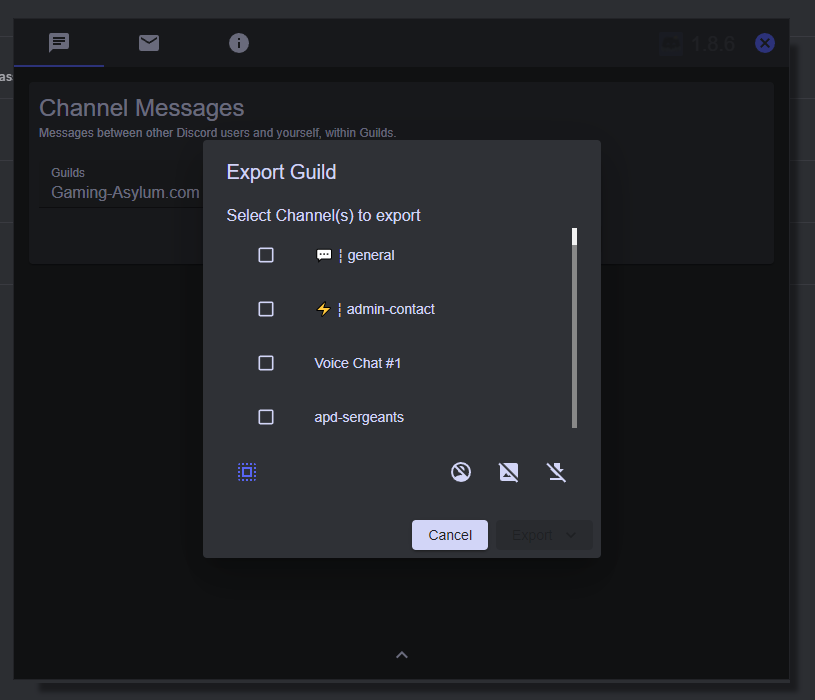
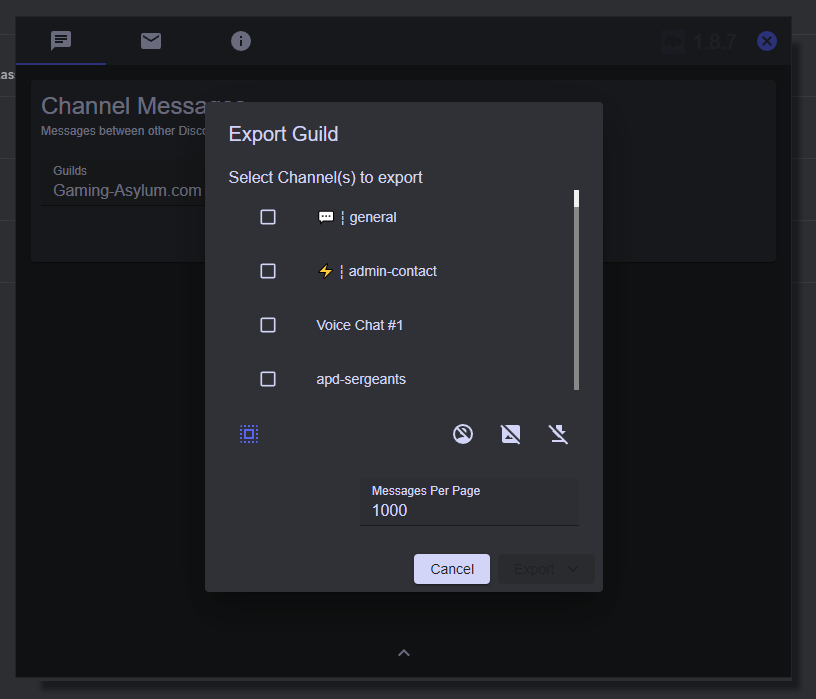
Add ability to set messages per page when exporting html

diff --git a/src/components/Buttons/ExportButton/Actions.jsx b/src/components/Buttons/ExportButton/Actions.jsx
@@ -14,8 +14,11 @@ const Actions = ({ setDialogOpen, isDm, contentRef, bulk }) => {
     setIsExporting,
     setStatusText,
     setIsGenerating,
+    setCurrentPage,
+    setMessagesPerPage,
   } = useContext(ExportContext);
-  const { downloadImages, isExporting } = exportState;
+  const { downloadImages, isExporting, currentPage, messagesPerPage } =
+    exportState;
 
   const {
     state: messageState,
@@ -33,6 +36,8 @@ const Actions = ({ setDialogOpen, isDm, contentRef, bulk }) => {
   const { messages: contextMessages, filteredMessages } = messageState;
   const { channels, selectedExportChannels, selectedChannel } = channelState;
   const { selectedDm } = dmState;
+  const currentPageRef = useRef();
+  currentPageRef.current = currentPage;
   const exportingActiveRef = useRef();
   exportingActiveRef.current = isExporting;
   const [anchorEl, setAnchorEl] = useState(null);
@@ -43,11 +48,7 @@ const Actions = ({ setDialogOpen, isDm, contentRef, bulk }) => {
     addToFolder,
     createZipFolder,
     generateHTML,
-  } = new ExportUtils(
-    contentRef,
-    setIsGenerating,
-    `message-data-${contextMessages.length - 1}`
-  );
+  } = new ExportUtils(contentRef, setIsGenerating);
   const open = !!anchorEl;
   const handleClick = (event) => {
     setAnchorEl(event.currentTarget);
@@ -144,8 +145,28 @@ const Actions = ({ setDialogOpen, isDm, contentRef, bulk }) => {
         entityName
       );
     else {
-      const htmlBlob = await generateHTML();
-      return addToZip(htmlBlob, entityName, "html");
+      const totalPages =
+        updatedMessages.length > messagesPerPage
+          ? Math.ceil(updatedMessages.length / messagesPerPage)
+          : 1;
+      while (currentPageRef.current <= totalPages) {
+        setStatusText(
+          `Compressing - Page ${currentPageRef.current} of ${totalPages}`
+        );
+        await new Promise((resolve) =>
+          setTimeout(() => {
+            resolve();
+          }, 2000)
+        );
+        const htmlBlob = await generateHTML();
+        addToZip(
+          htmlBlob,
+          entityName + "_page_" + currentPageRef.current,
+          "html"
+        );
+        await setCurrentPage(currentPageRef.current + 1);
+      }
+      return setCurrentPage(1);
     }
   };
 
@@ -179,6 +200,9 @@ const Actions = ({ setDialogOpen, isDm, contentRef, bulk }) => {
         attachmentFolder
       );
 
+      if (messagesPerPage === null || messagesPerPage === 0)
+        await setMessagesPerPage(updatedMessages.length);
+
       if (updatedMessages.length > 0) {
         if (isExportCancelled()) break;
         await _compressMessages(updatedMessages, format, entity.name);
@@ -198,6 +222,7 @@ const Actions = ({ setDialogOpen, isDm, contentRef, bulk }) => {
     setName("");
     resetZip();
     setStatusText(null);
+    setCurrentPage(1);
   };
 
   return (

diff --git a/src/components/Export/ExportMessages/ExportMessages.jsx b/src/components/Export/ExportMessages/ExportMessages.jsx
@@ -10,10 +10,12 @@ const ExportMessages = ({ componentRef }) => {
   const classes = ExportMessagesStyles();
 
   const { state: exportState } = useContext(ExportContext);
-  const { isExporting } = exportState;
+  const { isExporting, currentPage, messagesPerPage } = exportState;
   const { state: messageState } = useContext(MessageContext);
   const { messages, filters, filteredMessages, threads } = messageState;
   const exportMessages = filters.length > 0 ? filteredMessages : messages;
+  const startIndex =
+    currentPage === 1 ? 0 : (currentPage - 1) * messagesPerPage;
 
   return (
     <Box className={classes.boxContainer}>
@@ -33,9 +35,13 @@ const ExportMessages = ({ componentRef }) => {
           className={classes.messagesStack}
         >
           {isExporting &&
-            exportMessages.map((row, index) => {
-              return <MessageMock row={row} index={index} threads={threads} />;
-            })}
+            exportMessages
+              .slice(startIndex, startIndex + messagesPerPage)
+              .map((row, index) => {
+                return (
+                  <MessageMock row={row} index={index} threads={threads} />
+                );
+              })}
         </Stack>
       </Stack>
     </Box>

diff --git a/src/components/Buttons/ExportButton/PerPage.jsx b/src/components/Buttons/ExportButton/PerPage.jsx
@@ -1,0 +1,34 @@
+import React, { useContext } from "react";
+import Tooltip from "../../DiscordComponents/DiscordTooltip/DiscordToolTip";
+import { ExportContext } from "../../../context/export/ExportContext";
+import TextField from "@mui/material/TextField";
+
+const PerPage = () => {
+  const { state: exportState, setMessagesPerPage } = useContext(ExportContext);
+  const { messagesPerPage, isExporting } = exportState;
+
+  return (
+    <Tooltip
+      arrow
+      placement="left"
+      title={"Messages Per Page"}
+      description="Consider keeping this value low, export times can be completed many times faster if messages are broken up into pages."
+    >
+      <TextField
+        label="Messages Per Page"
+        variant="filled"
+        size="small"
+        inputProps={{ inputMode: "numeric", pattern: "[0-9]*" }}
+        disabled={isExporting}
+        value={messagesPerPage}
+        onChange={(e) => {
+          const input = parseInt(e.target.value);
+          if (!isNaN(input)) setMessagesPerPage(input);
+          else setMessagesPerPage(null);
+        }}
+      />
+    </Tooltip>
+  );
+};
+
+export default PerPage;

diff --git a/src/context/export/ExportContext.js b/src/context/export/ExportContext.js
@@ -8,6 +8,8 @@ import {
   SET_IS_GENERATING,
   SET_PREVIEW_IMAGES,
   SET_SHOW_AVATARS,
+  SET_CURRENT_PAGE,
+  SET_MESSAGES_PER_PAGE,
 } from "./ExportContextConstants";
 
 export const ExportContext = createContext();
@@ -23,10 +25,26 @@ const ExportContextProvider = (props) => {
       name: "",
       statusText: "",
       isGenerating: false,
+      currentPage: 1,
+      messagesPerPage: 1000,
     })
   );
   const exportingRef = useRef();
   exportingRef.current = state.isExporting;
+
+  const setMessagesPerPage = async (val) => {
+    return dispatch({
+      type: SET_MESSAGES_PER_PAGE,
+      payload: { messagesPerPage: val },
+    });
+  };
+
+  const setCurrentPage = async (val) => {
+    return dispatch({
+      type: SET_CURRENT_PAGE,
+      payload: { currentPage: val },
+    });
+  };
 
   const setIsGenerating = async (val) => {
     return dispatch({
@@ -79,6 +97,8 @@ const ExportContextProvider = (props) => {
         setIsGenerating,
         setPreviewImages,
         setShowAvatars,
+        setCurrentPage,
+        setMessagesPerPage,
       }}
     >
       {props.children}

diff --git a/src/components/Buttons/ExportButton/BulkContent.jsx b/src/components/Buttons/ExportButton/BulkContent.jsx
@@ -23,6 +23,7 @@ import { ExportContext } from "../../../context/export/ExportContext";
 import Progress from "./Progress";
 import PreviewImageToggle from "./PreviewImageToggle";
 import ShowAvatarsToggle from "./ShowAvatarsToggle";
+import PerPage from "./PerPage";
 
 const BulkContent = ({ isDm = false }) => {
   const classes = ExportButtonStyles();
@@ -125,6 +126,14 @@ const BulkContent = ({ isDm = false }) => {
                 <ImageToggle />
               </Stack>
             </Stack>
+            <Stack
+              className={classes.dialogBtnStack}
+              direction="row"
+              justifyContent="flex-end"
+              alignItems="center"
+            >
+              <PerPage />
+            </Stack>
           </Stack>
         </>
       )}
@@ -143,6 +152,9 @@ const BulkContent = ({ isDm = false }) => {
             <ShowAvatarsToggle />
             <PreviewImageToggle />
             <ImageToggle />
+          </Stack>
+          <Stack direction="row" justifyContent="flex-end" alignItems="center">
+            <PerPage />
           </Stack>
         </>
       )}

diff --git a/src/components/Buttons/ExportButton/DefaultContent.jsx b/src/components/Buttons/ExportButton/DefaultContent.jsx
@@ -7,6 +7,7 @@ import { ExportContext } from "../../../context/export/ExportContext";
 import Progress from "./Progress";
 import PreviewImageToggle from "./PreviewImageToggle";
 import ShowAvatarsToggle from "./ShowAvatarsToggle";
+import PerPage from "./PerPage";
 
 const DefaultContent = () => {
   const classes = ExportButtonStyles();
@@ -36,6 +37,9 @@ const DefaultContent = () => {
             <ShowAvatarsToggle />
             <PreviewImageToggle />
             <ImageToggle />
+          </Stack>
+          <Stack direction="row" justifyContent="flex-end" alignItems="center">
+            <PerPage />
           </Stack>
         </>
       )}

diff --git a/src/components/Buttons/ExportButton/ExportButton.jsx b/src/components/Buttons/ExportButton/ExportButton.jsx
@@ -26,6 +26,7 @@ const ExportButton = ({
     setDownloadImages,
     setShowAvatars,
     setPreviewImages,
+    setMessagesPerPage,
   } = useContext(ExportContext);
   const { isExporting, isGenerating } = exportState;
 
@@ -75,6 +76,7 @@ const ExportButton = ({
           await setDownloadImages(false);
           await setShowAvatars(false);
           await setPreviewImages(false);
+          await setMessagesPerPage(1000);
           setDialogOpen(true);
         }}
         variant="contained"

diff --git a/src/context/export/ExportContextConstants.js b/src/context/export/ExportContextConstants.js
@@ -7,3 +7,5 @@ export const PROCESSING_MESSAGES_COMPLETE = "PROCESSING_MESSAGES_COMPLETE";
 export const SET_IS_GENERATING = "SET_IS_GENERATING";
 export const SET_PREVIEW_IMAGES = "SET_PREVIEW_IMAGES";
 export const SET_SHOW_AVATARS = "SET_SHOW_AVATARS";
+export const SET_CURRENT_PAGE = "SET_CURRENT_PAGE";
+export const SET_MESSAGES_PER_PAGE = "SET_MESSAGES_PER_PAGE";

diff --git a/src/components/InjectedDialog/InjectedDialog.jsx b/src/components/InjectedDialog/InjectedDialog.jsx
@@ -102,7 +102,7 @@ function InjectedDialog() {
           spacing={1}
         >
           <img alt="Discrub Logo" className={classes.logo} src="discrub2.png" />
-          <Typography variant="h6">1.8.6</Typography>
+          <Typography variant="h6">1.8.7</Typography>
         </Stack>
       </Box>
       <CloseWindowButton />

diff --git a/src/components/Export/ExportUtils.js b/src/components/Export/ExportUtils.js
@@ -35,6 +35,7 @@ export default class ExportUtils {
       bodyElementStyle.backgroundColor = "#36393f";
       this.html = iframe.contentWindow.document.lastElementChild.outerHTML;
     },
+    removeAfterPrint: true,
   });
 
   createZipFolder = (folderName) => {
